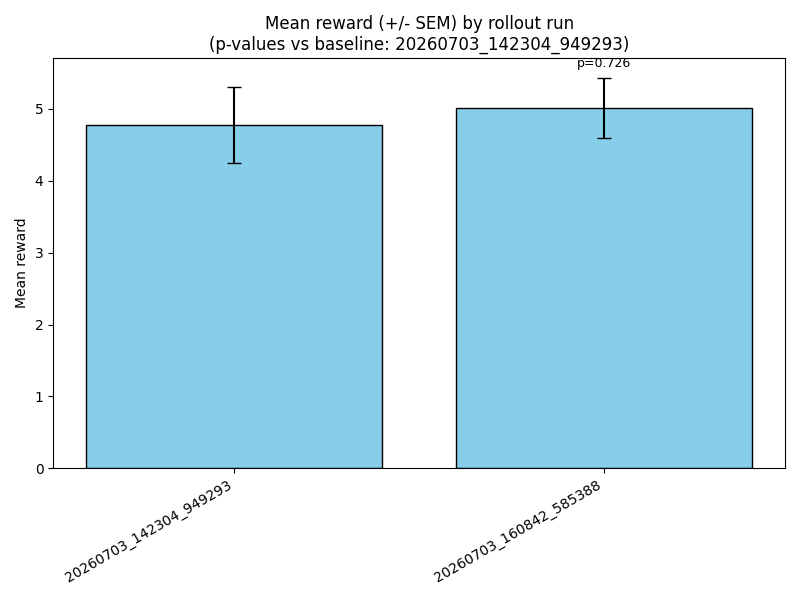
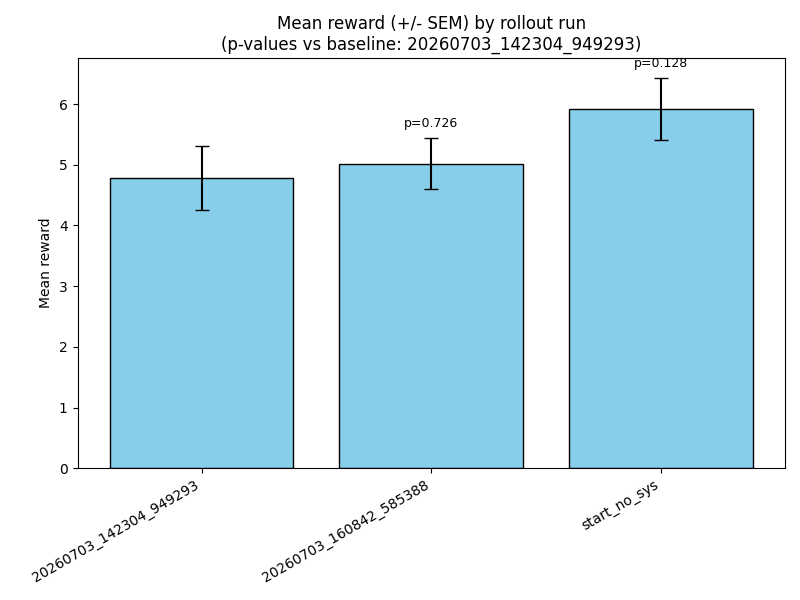
add support for model revisions

diff --git a/scripts/generate_rollouts.py b/scripts/generate_rollouts.py
@@ -149,6 +149,7 @@ def generate_with_vllm(
     effective_system: str | None = None,
     batch_size: int = 64,
     start_idx: int = 0,
+    model_revision: str | None = None,
 ) -> "Iterator[tuple[int, list[str]]]":
     """Yield ``(idx, [completion_text, ...])``, ``batch_size`` examples at a time.
 
@@ -176,6 +177,7 @@ def generate_with_vllm(
     logger.info(f"Loading {model_name_or_path} with vLLM (max_model_len={max_model_len})...")
     llm = vllm.LLM(
         model=model_name_or_path,
+        revision=model_revision,
         tensor_parallel_size=1,
         gpu_memory_utilization=vllm_config.vllm_gpu_memory_utilization,
         max_model_len=max_model_len,
@@ -225,13 +227,16 @@ def generate_with_transformers(
     temperature: float,
     effective_system: str | None = None,
     start_idx: int = 0,
+    model_revision: str | None = None,
 ) -> "Iterator[tuple[int, list[str]]]":
     """Yield ``(idx, [completion_text])`` one dataset example at a time (local HF model).
 
     ``start_idx`` skips ahead to resume a partially-completed run.
     """
     logger.info(f"Loading model {model_name_or_path} for local generation...")
-    model = AutoModelForCausalLM.from_pretrained(model_name_or_path, torch_dtype=torch.bfloat16, device_map="auto")
+    model = AutoModelForCausalLM.from_pretrained(
+        model_name_or_path, revision=model_revision, torch_dtype=torch.bfloat16, device_map="auto"
+    )
     model.eval()
     n = min(max_examples, len(dataset))
 
@@ -396,6 +401,7 @@ def main(
             effective_system=effective_system,
             batch_size=script_args.generation_batch_size,
             start_idx=start_idx,
+            model_revision=script_args.model_revision,
         )
     else:
         if script_args.model_name_or_path is None:
@@ -409,6 +415,7 @@ def main(
             temperature=streaming_config.temperature,
             effective_system=effective_system,
             start_idx=start_idx,
+            model_revision=script_args.model_revision,
         )
 
     # Generate one dataset example at a time and append its completions to the output
@@ -438,6 +445,16 @@ if __name__ == "__main__":
     parser.add_argument("--generate_with_transformers", action="store_true")
     # Optional: doubles as tokenizer source when --tokenizer_name_or_path is absent
     parser.add_argument("--model_name_or_path", type=str, default="allenai/Olmo-3.1-32B-Think")
+    parser.add_argument(
+        "--model_revision",
+        type=str,
+        default=None,
+        help=(
+            "Revision of the model to load from the Hugging Face Hub (branch, tag, or commit hash). "
+            "For example, intermediate RLVR checkpoints of OLMo-2-0325-32B-Instruct are accessible "
+            "as revisions such as 'step_200'. Defaults to the latest revision on the main branch."
+        ),
+    )
     parser.add_argument("--max_examples", type=int, default=100)
     parser.add_argument(
         "--generation_batch_size",